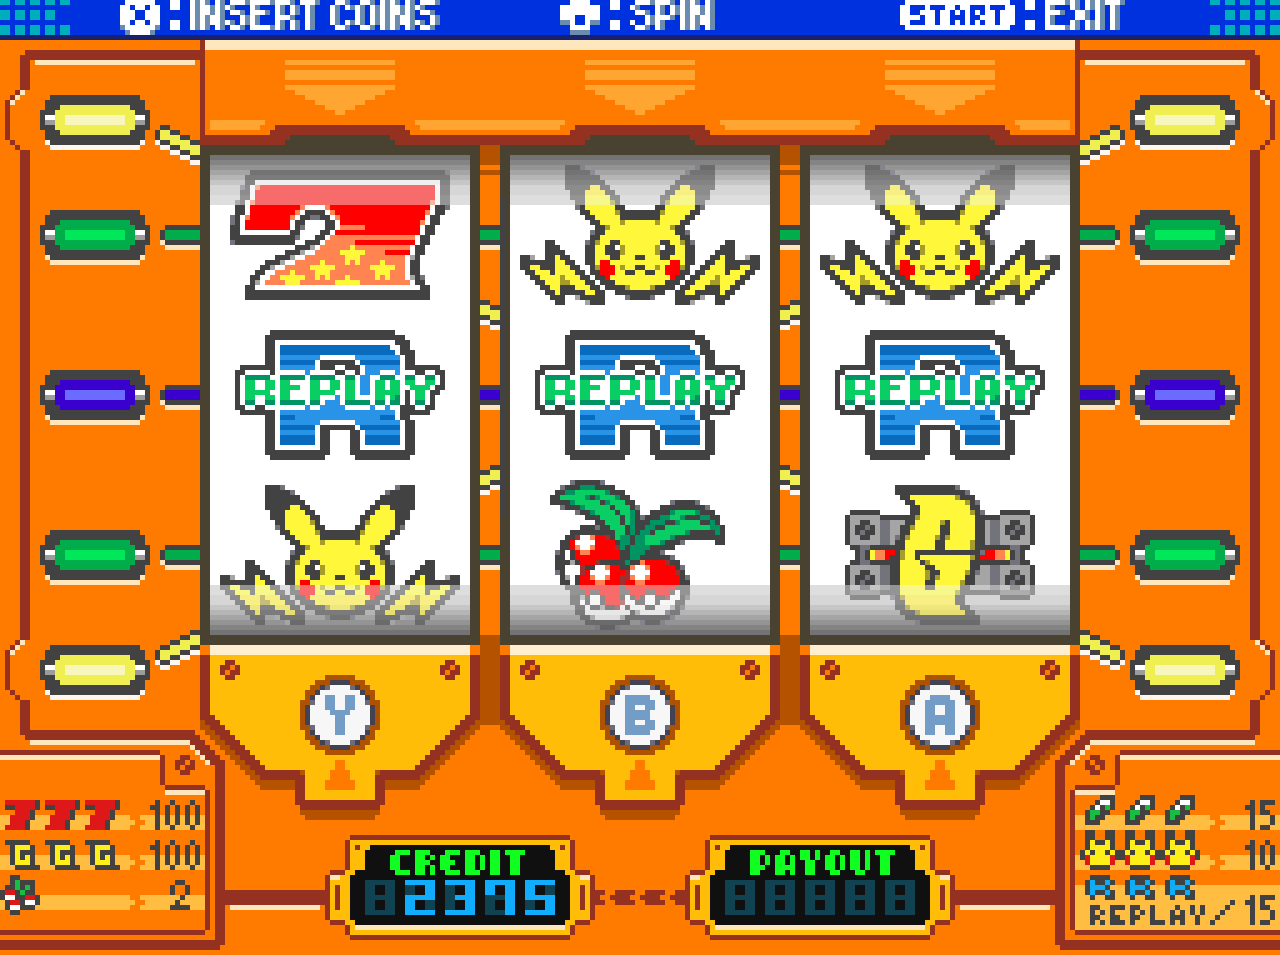
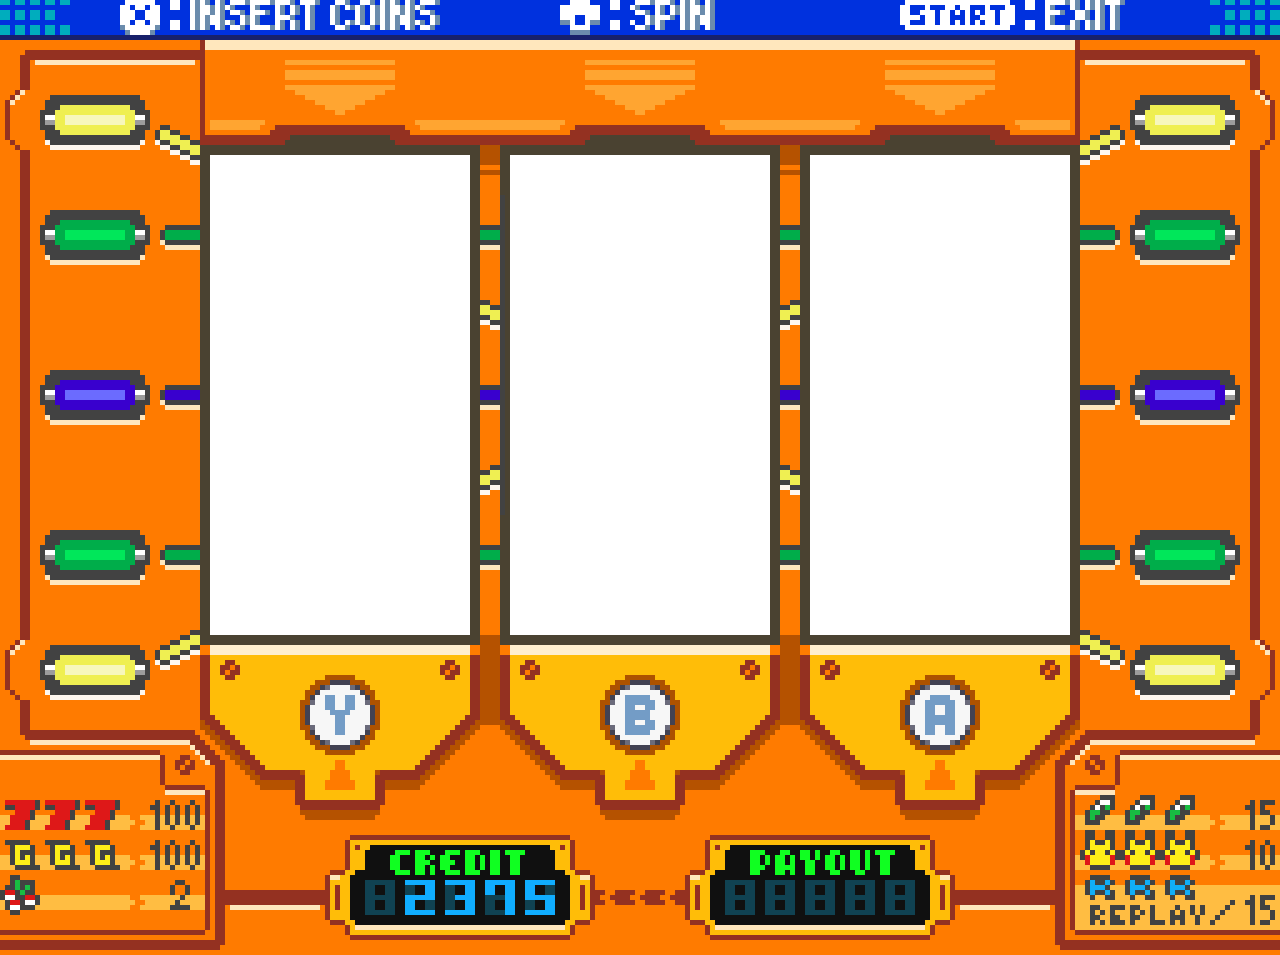
1:21 PM timestamp, final version v1

Changed region(s): [[0.1562, 0.1518, 0.8438, 0.6681]]

diff --git a/main.py b/main.py
@@ -8,7 +8,7 @@ import glob
 WIDTH, HEIGHT = 900, 500
 WIN = pygame.display.set_mode((WIDTH, HEIGHT))
 pygame.display.set_caption("OdderTech Game Corner")
-rate = 60
+rate = 15
 ICON_WIDTH, ICON_HEIGHT = 130, 90
 ICON_XPOS_L, ICON_XPOS_M, ICON_XPOS_R = 175, 385, 595
 ICON_YPOS = 170
@@ -50,9 +50,24 @@ bg = pygame.transform.scale(
 # likely implement this by reducing the frame rate so that it stops updaitng
 
 
-def draw_window(leftSprite, midSprite, rightSprite):
+# draw_window functions for each sprite
+def draw_bg():
     WIN.fill((255, 255, 255))
     WIN.blit(bg, (0, 0))
+    pygame.display.update()
+
+
+def draw_window1(leftSprite):
+    IMAGE_LEFT = random.choice(
+        [
+            Veilstone_7,
+            Veilstone_Berries,
+            Veilstone_Galactic,
+            Veilstone_Lightning,
+            Veilstone_Moon,
+            Veilstone_Replay,
+        ]
+    )
     WIN.blit(
         random.choice(
             [
@@ -66,22 +81,67 @@ def draw_window(leftSprite, midSprite, rightSprite):
         ),
         (leftSprite.x, leftSprite.y),
     )
-    WIN.blit(Veilstone_7, (midSprite.x, midSprite.y))
-    WIN.blit(Veilstone_7, (rightSprite.x, rightSprite.y))
     pygame.display.update()
+    return IMAGE_LEFT
+
+
+def draw_window2(midSprite):
+    IMAGE_MID = random.choice(
+        [
+            Veilstone_7,
+            Veilstone_Berries,
+            Veilstone_Galactic,
+            Veilstone_Lightning,
+            Veilstone_Moon,
+            Veilstone_Replay,
+        ]
+    )
+    WIN.blit(
+        random.choice(
+            [
+                Veilstone_7,
+                Veilstone_Berries,
+                Veilstone_Galactic,
+                Veilstone_Lightning,
+                Veilstone_Moon,
+                Veilstone_Replay,
+            ]
+        ),
+        (midSprite.x, midSprite.y),
+    )
+    pygame.display.update()
+    return IMAGE_MID
+
+
+def draw_window3(rightSprite):
+    IMAGE_RIGHT = random.choice(
+        [
+            Veilstone_7,
+            Veilstone_Berries,
+            Veilstone_Galactic,
+            Veilstone_Lightning,
+            Veilstone_Moon,
+            Veilstone_Replay,
+        ]
+    )
+    WIN.blit(
+        random.choice(
+            [
+                Veilstone_7,
+                Veilstone_Berries,
+                Veilstone_Galactic,
+                Veilstone_Lightning,
+                Veilstone_Moon,
+                Veilstone_Replay,
+            ]
+        ),
+        (rightSprite.x, rightSprite.y),
+    )
+    pygame.display.update()
+    return IMAGE_RIGHT
 
 
 # conditions
-
-
-# movement
-def icon_movement(keys_pressed, leftSprite, midSprite, rightSprite):
-    """if keys_pressed[pygame.K_f]:
-    leftSprite.y += 1"""
-    if keys_pressed[pygame.K_g]:
-        midSprite.y += 1
-    if keys_pressed[pygame.K_h]:
-        rightSprite.y += 1
 
 
 def main():
@@ -90,26 +150,65 @@ def main():
     rightSprite = pygame.Rect(ICON_XPOS_R, ICON_YPOS, ICON_WIDTH, ICON_HEIGHT)
     run = True
     clock = pygame.time.Clock()
-
+    draw_bg()
     while run:
         clock.tick(rate)
         keys_pressed = pygame.key.get_pressed()
         for event in pygame.event.get():
             if event.type == pygame.QUIT:
-                run = False
+                pygame.quit()
                 print("Hello")
             if keys_pressed[pygame.K_f]:
                 run = False
                 print("Correct")
 
-        icon_movement(keys_pressed, leftSprite, midSprite, rightSprite)
-        draw_window(leftSprite, midSprite, rightSprite)
+        # icon_movement(keys_pressed, leftSprite, midSprite, rightSprite)
+        draw_bg()
+        sprite_left = draw_window1(leftSprite)
+        draw_window2(midSprite)
+        draw_window3(rightSprite)
+
+    # first sprite is stopped
+    stop_con1 = True
+    while stop_con1:
+        clock.tick(rate)
+        keys_pressed = pygame.key.get_pressed()
+        for event in pygame.event.get():
+            if event.type == pygame.QUIT:
+                pygame.quit()
+                print("Hello")
+            if keys_pressed[pygame.K_g]:
+                stop_con1 = False
+                print("Correct2")
+        draw_bg()
+        WIN.blit(sprite_left, (leftSprite.x, leftSprite.y))
+        sprite_mid = draw_window2(midSprite)
+        draw_window3(rightSprite)
+    stop_con2 = True
+    while stop_con2:
+        clock.tick(rate)
+        keys_pressed = pygame.key.get_pressed()
+        for event in pygame.event.get():
+            if event.type == pygame.QUIT:
+                pygame.quit()
+                print("Hello")
+            if keys_pressed[pygame.K_h]:
+                stop_con2 = False
+                print("Correct3")
+        draw_bg()
+        WIN.blit(sprite_left, (leftSprite.x, leftSprite.y))
+        WIN.blit(sprite_mid, (midSprite.x, midSprite.y))
+        sprite_right = draw_window3(rightSprite)
     idle = True
     while idle:
         for event in pygame.event.get():
             if event.type == pygame.QUIT:
                 idle = False
                 print("Hello")
+        WIN.blit(sprite_right, (rightSprite.x, rightSprite.y))
+        keys_pressed = pygame.key.get_pressed()
+        if keys_pressed[pygame.K_SPACE]:
+            main()
 
     pygame.quit()
 
